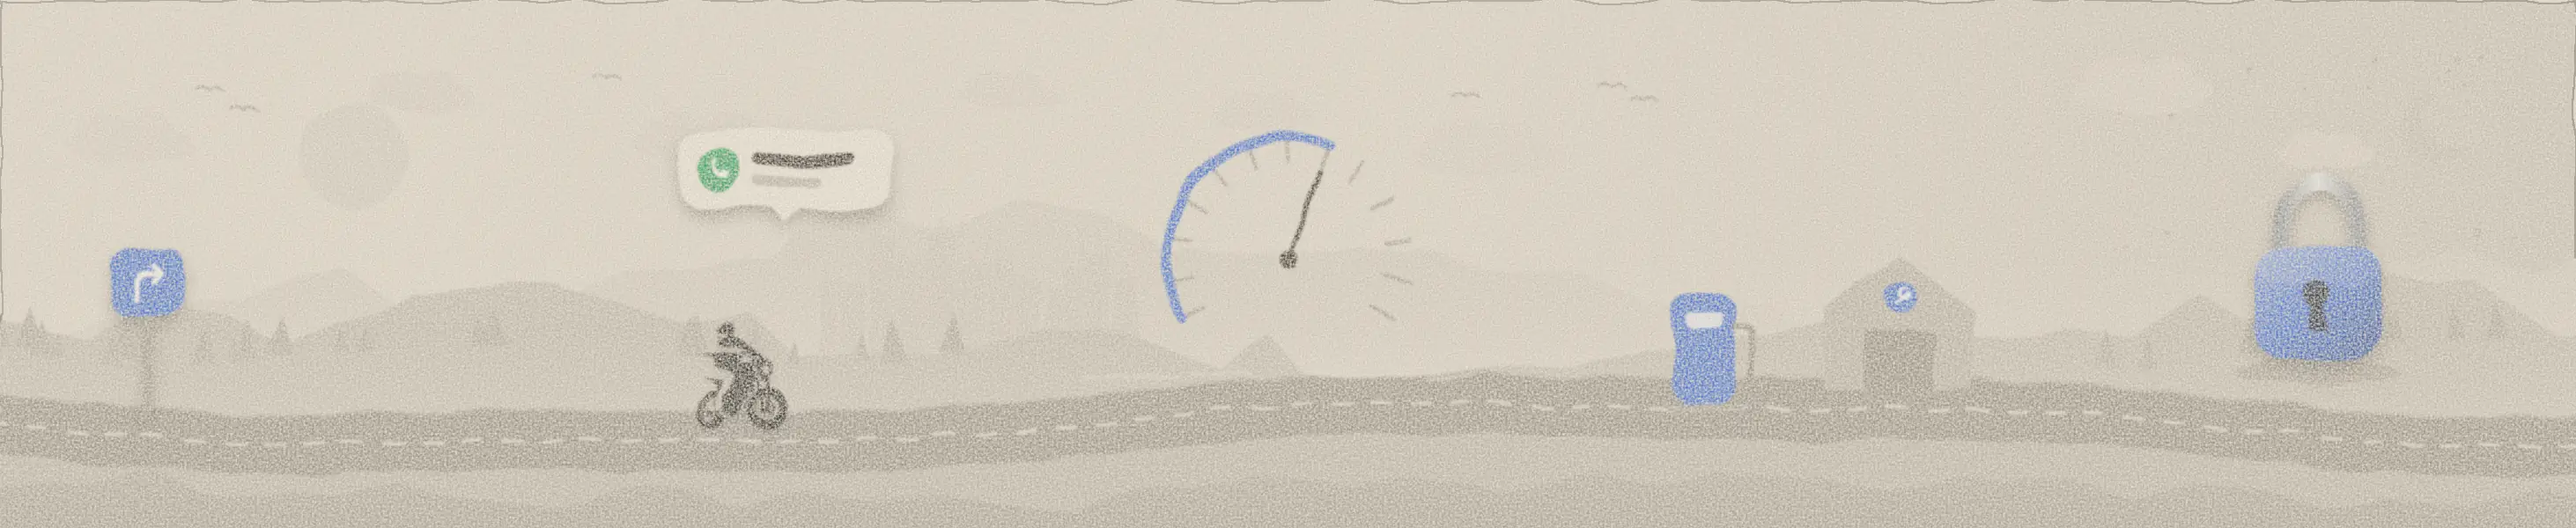
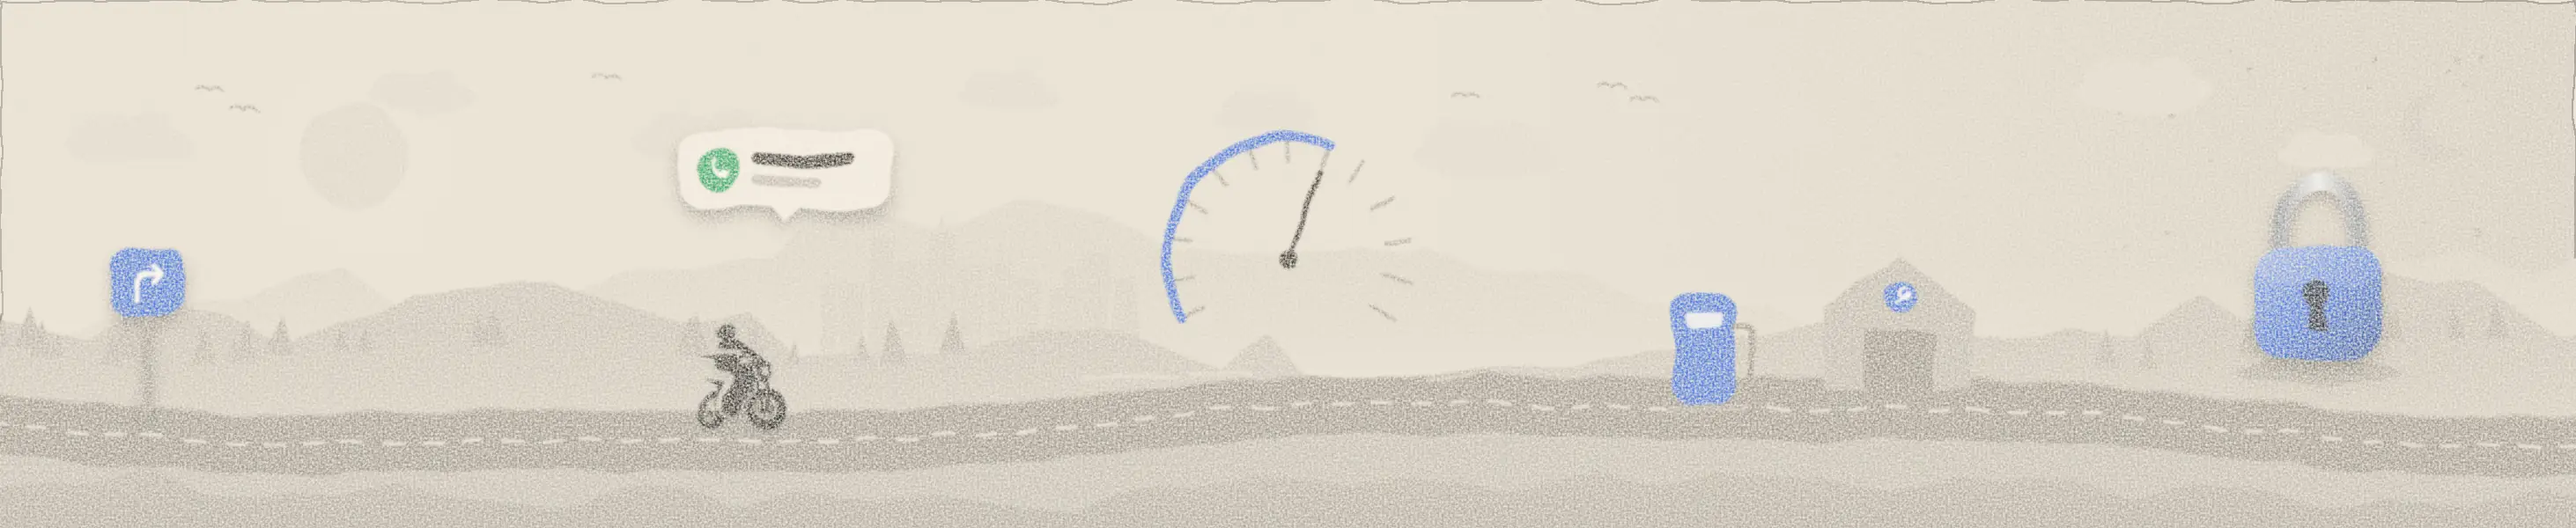
Sporty helmet facing forward on the rider silhouette; tidier service history rows
Claude-Session: https://claude.ai/code/session_011svZSxEu7wpuhhs3qeC1tv

diff --git a/js/views.js b/js/views.js
@@ -437,7 +437,7 @@ export function logbook(c) {
   <div class="section">${sh('Reminders · most urgent first', '', 'reminders')}
     <div class="rows" id="svc-rows">${list.map(({ it, st }) => serviceRow(it, st)).join('') || '<div class="empty">No reminders yet. Tap + to add one.</div>'}</div></div>
   <div class="section">${sh('Workshop visits', '<button class="link" data-act="sheet" data-arg="rec:new">Add visit</button>', 'visits')}
-    ${s.records.length ? `<div class="list">${[...s.records].sort((a, b) => b.date - a.date).map((r) => li({ ic: 'wrench', t: esc(r.title), d: `${dFull(r.date)} · ${num(r.odo)} km`, end: r.cost ? `${cur}${num(r.cost)}` : '', act: 'sheet', arg: 'rec:' + r.id })).join('')}</div>
+    ${s.records.length ? `<div class="list">${[...s.records].sort((a, b) => b.date - a.date).map((r) => `<button class="rec-row" data-act="sheet" data-arg="rec:${r.id}"><span class="rec-ic">${icon('wrench')}</span><span class="rec-t">${esc(r.title)}</span><span class="rec-c">${r.cost ? cur + short(r.cost) : ''}</span><span class="rec-d">${dShort(r.date)} · ${short(r.odo)} km</span></button>`).join('')}</div>
     <div class="flex between mt12 small muted" style="padding:0 4px"><span>Spent on service</span><b style="font-weight:500;color:var(--ink)">${cur}${num(spent)}</b></div>` : '<div class="card empty">Log each visit. A full history helps at resale.</div>'}
   </div>
   <div class="section">${sh('For the mechanic', `<span class="eyebrow">${s.checklist.filter((x) => !x.done).length} open</span>`, 'mechanic')}

diff --git a/styles.css b/styles.css
@@ -2181,3 +2181,11 @@ html[data-theme="obsidian"] .onb-link .onb-img, html[data-theme="amoled"] .onb-l
 .link-wave { animation: fadeIn .4s ease 1.45s both; }
 .link-badge { animation: badgeIn .5s cubic-bezier(.3,1.4,.5,1) 1.7s both, lbPulse 2.4s ease-in-out 2.2s infinite !important; }
 @keyframes badgeIn { from { transform: scale(.4); opacity: 0; } to { transform: none; opacity: 1; } }
+/* Service history rows: title gets the room, cost and details stay short */
+.rec-row { display: grid; grid-template-columns: 40px 1fr auto; grid-template-rows: auto auto; column-gap: 12px; row-gap: 3px; width: 100%; padding: 13px 16px; text-align: left; align-items: start; }
+.rec-row + .rec-row { border-top: 1px solid var(--line); }
+.rec-ic { grid-row: 1 / 3; width: 40px; height: 40px; border-radius: 12px; display: grid; place-items: center; background: color-mix(in srgb, var(--ink) 6%, transparent); color: var(--ink-2); }
+.rec-ic svg { width: 20px; height: 20px; }
+.rec-t { font-size: 15.5px; font-weight: 500; line-height: 1.3; display: -webkit-box; -webkit-line-clamp: 2; -webkit-box-orient: vertical; overflow: hidden; }
+.rec-c { font-size: 15px; font-weight: 600; white-space: nowrap; padding-top: 1px; }
+.rec-d { grid-column: 2 / 4; font-size: 13px; color: var(--ink-3); white-space: nowrap; overflow: hidden; text-overflow: ellipsis; }

diff --git a/sw.js b/sw.js
@@ -1,5 +1,5 @@
 // Waylink — offline shell. Caches the app's own files; fonts are cached as they load.
-const CACHE = 'waylink-v110';
+const CACHE = 'waylink-v112';
 const SHELL = ['./', 'index.html', 'styles.css', 'js/app.js', 'js/views.js', 'js/store.js', 'js/link.js', 'js/protocol.js', 'js/sound.js', 'js/icons-huge.js', 'img/onb/scene-light.webp', 'img/onb/scene-dark.webp', 'img/onb/link-light.webp', 'img/onb/link-dark.webp', 'img/grain.png', 'img/rider.png', 'manifest.webmanifest', 'icon.svg', 'img/logos/wl-loop-rust.svg', 'img/logos/wl-turns-rust.svg', 'img/logos/png/wl-loop-rust-180.png', 'img/bikes/manifest.json', 'img/bikes/ns200-art.webp', ];
 // Cache each file on its own, so one missing file can't block an update.
 self.addEventListener('install', (e) => { e.waitUntil(caches.open(CACHE).then((c) => Promise.all(SHELL.map((u) => c.add(new Request(u, { cache: 'reload' })).catch(() => {})))).then(() => self.skipWaiting())); });
